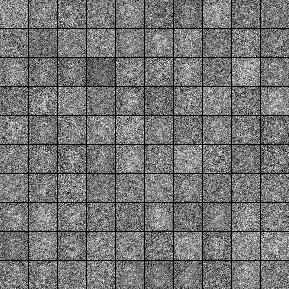
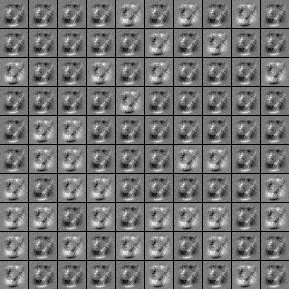
changed logic - was getting an issue

diff --git a/invariant_rbm.py b/invariant_rbm.py
@@ -49,7 +49,7 @@ def glorot_init(name, *shape):
 # there are n_filt filters
 # h = <n_hid, n_filt>
 
-def build_rbm(n_vis, n_hid, n_rep, n_filt, k):
+def build_rbm(n_vis, n_hid, n_rep, n_filt):
     R = glorot_init('R', n_vis, n_filt, n_rep)
     W = glorot_init('W', n_rep, n_hid)
 
@@ -58,12 +58,15 @@ def build_rbm(n_vis, n_hid, n_rep, n_filt, k):
 
     v = T.matrix('v', dtype=theano.config.floatX)
     lr = T.scalar('lr', dtype=theano.config.floatX)
+    k = T.lscalar('k')
 
     def gibbs_step(v_in):
         h_inner = T.tensordot(v_in, R, axes=[1, 0])
         h_inner = T.tensordot(h_inner, W, axes=[2, 0]) + hbias
-        mean_h = T.exp(h_inner) / (1 + T.sum(T.exp(h_inner), axis=1, keepdims=True))
-        h = trng.binomial(size=mean_h.shape, n=1, p=mean_h, dtype=theano.config.floatX)
+        mean_h = T.exp(h_inner) / (1 + T.sum(T.exp(h_inner), axis=2, keepdims=True))
+
+        # slow, because you're calculating 500 multinomial distributions
+        h = trng.multinomial(pvals=mean_h, dtype=theano.config.floatX)
         rw = T.tensordot(R, W, axes=[2, 0])
         mean_v = T.nnet.sigmoid(T.tensordot(h, rw, axes=[[1, 2], [1, 2]]) + vbias)
         v_out = trng.binomial(size=mean_v.shape, n=1, p=mean_v, dtype=theano.config.floatX)
@@ -72,7 +75,7 @@ def build_rbm(n_vis, n_hid, n_rep, n_filt, k):
     chain, updates = theano.scan(lambda v_in: gibbs_step(v_in)[1], outputs_info=[v], n_steps=k)
     v_sample = chain[-1]
 
-    mean_v = gibbs_step(v_sample)[0]
+    mean_v = gibbs_step(v)[0]
     # monitor = T.xlogx.xlogy0(v, mean_v) + T.xlogx.xlogy0(1 - v, 1 - mean_v)
     monitor = -T.mean(v * T.log(mean_v) + (1 - v) * T.log(1 - mean_v))
 
@@ -85,22 +88,22 @@ def build_rbm(n_vis, n_hid, n_rep, n_filt, k):
     cost = T.mean(free_energy(v) - free_energy(v_sample))
 
     for param in [R, W, vbias, hbias]:
-        gparam = T.grad(cost=cost, wrt=param, consider_constant=[v_sample])
+        gparam = T.grad(cost=cost, wrt=param, consider_constant=[v, v_sample])
         updates[param] = param - gparam * lr
 
-    return v, lr, W, R, cost, updates, monitor
+    return k, v, lr, W, R, cost, updates, monitor
 
 if __name__ == '__main__':
     n_vis = 28 * 28
-    n_hid = 500
-    n_rep = 20
-    n_filt = 10
-    k = 5
+    n_hid = 100
+    n_rep = 101
+    n_filt = 102
+    k = 10
     batch_size = 50
     training_epochs = 15
     save_dir = 'tirbm_mnist'
 
-    v, lr, W, R, cost, updates, monitor = build_rbm(n_vis, n_hid, n_rep, n_filt, k)
+    k, v, lr, W, R, cost, updates, monitor = build_rbm(n_vis, n_hid, n_rep, n_filt)
 
     if 'MNIST_PATH' not in os.environ:
         print('You must set MNIST_PATH as an environment variable (pointing at mnist.pkl.gz). You can download the ' +
@@ -128,19 +131,19 @@ if __name__ == '__main__':
     n_train_batches = train_X.get_value(borrow=True).shape[0] // batch_size
     index = T.lscalar('index')
 
-    train_func = theano.function(inputs=[index, lr],
+    train_func = theano.function(inputs=[index, lr, k],
                                  outputs=monitor,
                                  updates=updates,
                                  givens={v: train_X[index*batch_size:(index+1)*batch_size]},
                                  name='train_rbm')
 
-    learning_rate = 0.001
+    learning_rate = 0.01
     for epoch in range(training_epochs):
         mean_cost = list()
         for batch_index in range(n_train_batches):
-            cost = train_func(batch_index, learning_rate)
-            mean_cost.append(cost)
             frac = (n_train_batches - batch_index) * 10 / n_train_batches
+            cost = train_func(batch_index, learning_rate, epoch * 10 + frac + 1)
+            mean_cost.append(cost)
             print('\r[' + '=' * (10 - frac) + '>' + ' ' * frac + '] :: (%d / %d) Cost: %f' % (batch_index, n_train_batches, cost), end='')
         print('\r[===========] :: Cost: %f' % (np.mean(mean_cost)))
 

diff --git a/test.py b/test.py
@@ -7,6 +7,9 @@ import theano.tensor as T
 from theano.tensor.shared_randomstreams import RandomStreams
 import numpy as np
 
+rng = np.random.RandomState(42)
+trng = RandomStreams(rng.randint(2**30))
+
 # X = T.matrix(name='X', dtype=theano.config.floatX)
 # y = T.matrix(name='y', dtype=theano.config.floatX)
 # lr = T.scalar(name='lr', dtype=theano.config.floatX)
@@ -42,10 +45,6 @@ import numpy as np
 # print('Testing...')
 # print(test(X_data))
 
-# rng = np.random.RandomState(42)
-# trng = RandomStreams(rng.randint(2**30))
-#
-#
 # def build_rbm(v, W, bv, bh, k):
 #     def gibbs_step(v):
 #         mean_h = T.nnet.sigmoid(T.dot(v, W) + bh)
@@ -77,15 +76,31 @@ n_rep = 5
 n_filt = 7
 b_size = 11
 
-rnd = lambda *shape: np.random.uniform(size=shape)
+rnd = lambda *shape: np.random.uniform(high=10, size=shape)
 
 v = rnd(b_size, n_vis)
 R = rnd(n_vis, n_filt, n_rep)
 W = rnd(n_rep, n_hid)
 vbias = rnd(n_vis)
-hbias = rnd(n_filt, n_hid)
+hbias = theano.shared(name='hbias', value=rnd(13, n_filt, n_hid), strict=False)
+h = T.exp(hbias) / (1 + T.sum(T.exp(hbias), axis=2, keepdims=True))
 
-repr = np.tensordot(v, R, axes=[1, 0])
-out = np.tensordot(repr, W, axes=[2, 0]) + hbias
-vterm = (v * vbias).sum()
-print(vterm.shape)
+# def gibbs_step(v_in):
+#     h_inner = np.tensordot(v_in, R, axes=[1, 0])
+#     h_inner = np.tensordot(h_inner, W, axes=[2, 0]) + hbias
+#     mean_h = np.exp(h_inner) / (1 + np.sum(np.exp(h_inner), axis=1, keepdims=True))
+#     # h = np.random.binomial(size=mean_h.shape, n=1, p=mean_h)
+#     h = np.asarray(mean_h == np.max(mean_h, axis=2, keepdims=True), dtype='int32')
+#     rw = np.tensordot(R, W, axes=[2, 0])
+#     v_inner = np.tensordot(h, rw, axes=[[1, 2], [1, 2]]) + vbias
+#     mean_v = 1 / (1 + np.exp(-v_inner))
+#     v_out = np.random.binomial(size=mean_v.shape, n=1, p=mean_v)
+#     return mean_v, v_out
+
+output = trng.multinomial(pvals=h)
+
+f = theano.function([], h.sum(axis=2).max())
+print(f())
+
+g = theano.function([], output)
+print(g())
